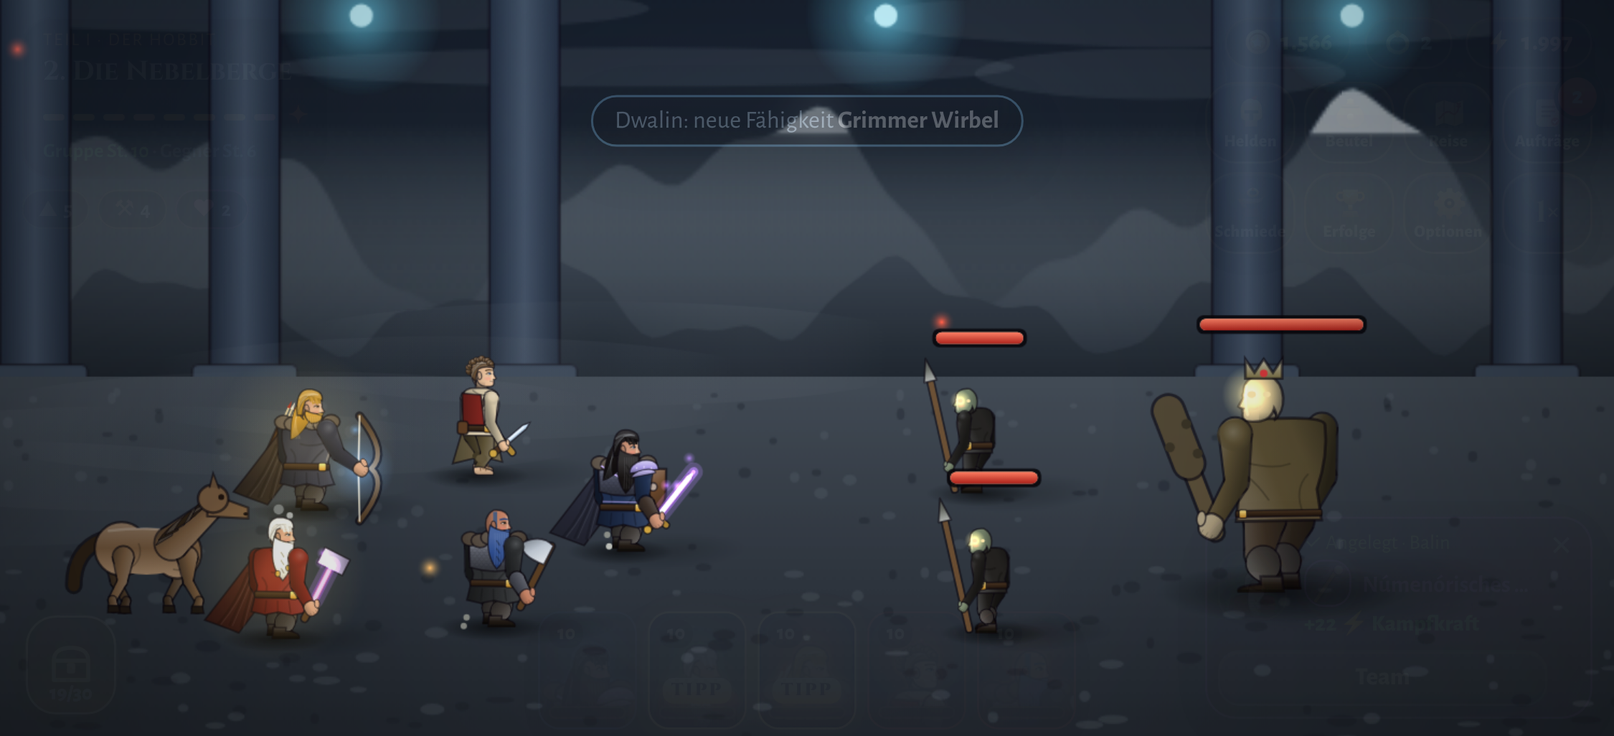
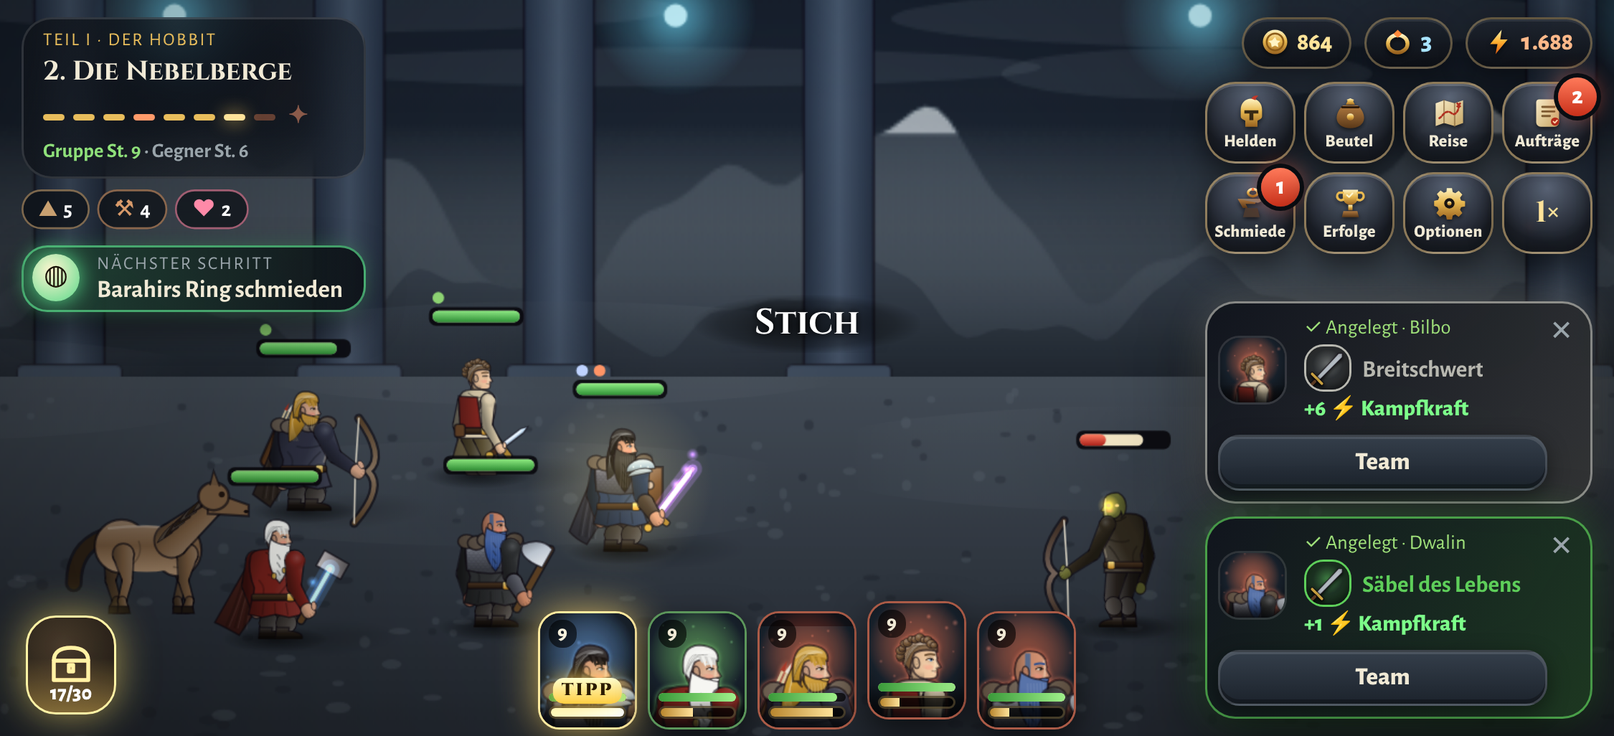
Bedienung und Grafik: Nächster Schritt, Figuren-Info, Wischen zum Schließen, Lebensbalken, Nebel
- Empfehlungs-Knopf mit der sinnvollsten nächsten Aktion
- Info-Karte beim Antippen von Gegnern und Helden
- Menüs per Wischgeste schließen
- Heldenkarten mit LP-Balken, Schadensspur, Treffer- und Heil-Feedback
- Bossleiste mit Schadensspur, Prozentanzeige und Phasenmarke
- Nebelbänke in düsteren Gebieten, keine Textmarkierung beim Wischen

Claude-Session: https://claude.ai/code/session_013CMDwHUxvqhbScGoinLXuV

diff --git a/index.html b/index.html
@@ -198,7 +198,7 @@ body.sheet-open #gsug{display:none}
 .sh-head{display:flex;align-items:center;justify-content:space-between;padding:calc(10px + var(--st)) 16px 10px 18px;border-bottom:1px solid var(--line)}
 .sh-head h2{font-size:22px;background:linear-gradient(#fff3cf,#e0b552);-webkit-background-clip:text;background-clip:text;color:transparent}
 .x{width:38px;height:38px;border-radius:50%;border:1px solid var(--line);background:rgba(255,255,255,.06);font-size:16px}
-.sh-body{flex:1;overflow:auto;padding:14px 18px calc(18px + var(--sb));-webkit-overflow-scrolling:touch;-webkit-user-select:text;user-select:text}
+.sh-body{flex:1;overflow:auto;padding:14px 18px calc(18px + var(--sb));-webkit-overflow-scrolling:touch;-webkit-user-select:none;user-select:none} .sh-body textarea{-webkit-user-select:text;user-select:text}
 .btn{border:1px solid rgba(255,255,255,.16);background:linear-gradient(#2a333e,#1a2028);border-radius:10px;padding:9px 14px;font-weight:800;font-size:14px;box-shadow:0 4px 12px rgba(0,0,0,.4),inset 0 1px 0 rgba(255,255,255,.1);transition:transform .12s,border-color .15s}
 .btn:active:not(:disabled){transform:scale(.96)}
 .btn:disabled{opacity:.4;cursor:not-allowed}
@@ -564,7 +564,7 @@ body.portrait #sheet{width:100%}
   #bossbar{width:min(22cqw,260px);font-size:11px} #bossbar .bar{height:6px}
   .pc{width:46px!important} #party{gap:5px!important;bottom:calc(3px + var(--sb))!important} .pc .pl{font-size:9.5px}
   #chest{width:42px;height:46px}
-  #toasts{top:calc(50px + var(--st))} .toast{max-width:32cqw;white-space:normal;font-size:11.5px;padding:4px 10px;line-height:1.25}
+  #toasts{top:calc(58px + var(--st))} .toast{max-width:32cqw;white-space:normal;font-size:11.5px;padding:4px 10px;line-height:1.25}
   #banner{top:40%;white-space:normal;max-width:66cqw;line-height:1.15;font-size:clamp(13px,2.2cqw,19px)!important} #banner.ult{font-size:clamp(15px,2.6cqw,22px)!important}
   #loot{bottom:calc(64px + var(--sb))!important} #loot .lp{padding:2px 8px 2px 3px;font-size:11px} #loot .lp .ic{width:20px;height:20px}
   #gsug{width:auto} .gsg{width:min(220px,24cqw);padding:5px 20px 5px 5px;grid-template-columns:32px minmax(0,1fr)} .gsg-h{width:32px;height:32px} .gsg-t small{font-size:9.5px} .gsg-i b{font-size:11px} .gsg .btn{padding:4px 6px;font-size:12px} .pos{font-size:10.5px}
@@ -597,6 +597,30 @@ body.portrait #sheet{width:100%}
 /* Gedrehte Darstellung (iPhone hochkant): Spiel um 90° gedreht, Notch-Seite wird links */
 body.rot{--sl:env(safe-area-inset-top,0px);--sr:env(safe-area-inset-bottom,0px);--st:env(safe-area-inset-right,0px);--sb:env(safe-area-inset-left,0px)}
 #rotate{z-index:90}
+/* Heldenkarten: LP-Balken, Treffer- und Heil-Feedback */
+.pc .hpb{position:absolute;left:4px;right:4px;bottom:12px;height:4px;border-radius:4px;background:rgba(0,0,0,.72);overflow:hidden}
+.pc .hpb i{position:absolute;left:0;top:0;bottom:0;border-radius:4px} .pc .hpb .tr{background:#f4e8c8;transition:width .6s ease .35s} .pc .hpb .hp{background:linear-gradient(90deg,#3a9a3a,#9ff08a);transition:width .15s}
+.pc.low .hpb .hp{background:linear-gradient(90deg,#c8302a,#ff7a6a)} .pc.low{box-shadow:0 0 0 1px rgba(255,80,60,.6),0 6px 16px rgba(0,0,0,.6)}
+.pc.hit{animation:pchit .38s ease-out} .pc.heal{animation:pcheal .55s ease-out}
+@keyframes pchit{0%{transform:translateX(0);filter:brightness(1)}15%{transform:translateX(-3px);filter:brightness(1.6) saturate(1.4) hue-rotate(-20deg);box-shadow:inset 0 0 22px rgba(255,40,20,.9),0 0 14px rgba(255,60,40,.7)}35%{transform:translateX(3px)}55%{transform:translateX(-2px)}100%{transform:none;filter:none}}
+@keyframes pcheal{0%{box-shadow:inset 0 0 0 rgba(120,255,140,0)}30%{box-shadow:inset 0 0 22px rgba(120,255,140,.85),0 0 16px rgba(120,255,140,.6)}100%{box-shadow:inset 0 0 0 rgba(120,255,140,0)}}
+/* Bossleiste */
+.bb{position:relative} .bb i{position:absolute;left:0;top:0;bottom:0} #bossTrail{background:#f4e8c8!important;transition:width .7s ease .4s!important} #bossFill{box-shadow:0 0 10px rgba(255,90,60,.7)}
+#bossMark{position:absolute;left:50%;top:-2px;bottom:-2px;width:2px;background:#fff6d0;box-shadow:0 0 6px #fff} #bossPct{display:block;font-family:var(--body);font-size:10.5px;font-weight:800;color:#ffd0c0;margin-top:1px}
+/* Nächster Schritt */
+.next{display:flex;align-items:center;gap:8px;border:1px solid color-mix(in srgb,var(--nc,#e8bd5c) 70%,transparent);border-radius:12px;padding:5px 12px 5px 6px;background:linear-gradient(90deg,color-mix(in srgb,var(--nc,#e8bd5c) 26%,rgba(12,16,22,.94)),rgba(12,16,22,.9));box-shadow:0 0 14px color-mix(in srgb,var(--nc,#e8bd5c) 35%,transparent),0 6px 16px rgba(0,0,0,.5);color:var(--fg);text-align:left;max-width:min(240px,24cqw);animation:nxpulse 1.6s ease-in-out infinite alternate;pointer-events:auto}
+.next .nx-ic{width:26px;height:26px;flex:none;border-radius:50%;display:grid;place-items:center;font-size:15px;color:#1a1206;background:radial-gradient(circle at 40% 35%,#fff6d0,var(--nc,#e8bd5c));box-shadow:0 0 10px var(--nc,#e8bd5c)}
+.next .nx-t{min-width:0;display:flex;flex-direction:column;line-height:1.15} .next small{font-size:9.5px;letter-spacing:.1em;text-transform:uppercase;color:var(--muted)} .next b{font-size:12.5px;white-space:nowrap;overflow:hidden;text-overflow:ellipsis}
+@keyframes nxpulse{from{box-shadow:0 0 8px color-mix(in srgb,var(--nc,#e8bd5c) 25%,transparent),0 6px 16px rgba(0,0,0,.5)}to{box-shadow:0 0 18px color-mix(in srgb,var(--nc,#e8bd5c) 55%,transparent),0 6px 16px rgba(0,0,0,.5)}}
+@container app (orientation: landscape){ #banner{max-width:36cqw!important;white-space:normal!important;line-height:1.12} #loot{max-width:min(220px,24cqw)!important} }
+#nextP{display:none!important} .next.dim{opacity:0;pointer-events:none;transition:opacity .2s}
+/* Info-Karte */
+.uinfo{position:absolute;z-index:35;width:min(230px,60cqw);border-radius:14px;padding:8px 10px;background:linear-gradient(160deg,rgba(24,30,40,.96),rgba(10,12,16,.97));border:1px solid rgba(255,214,140,.4);box-shadow:0 10px 30px rgba(0,0,0,.6);display:flex;flex-direction:column;gap:3px;animation:tin .2s ease-out;pointer-events:auto}
+.uinfo.foe{border-color:rgba(255,110,80,.55)} .ui-h{display:flex;justify-content:space-between;align-items:baseline;gap:8px} .ui-h b{font-family:var(--display);font-size:14px} .ui-h span{font-size:10.5px;color:var(--muted);white-space:nowrap}
+.ui-hp{height:6px;border-radius:6px;background:rgba(0,0,0,.6);overflow:hidden} .ui-hp i{display:block;height:100%;background:linear-gradient(90deg,#3a9a3a,#9ff08a)} .uinfo.foe .ui-hp i{background:linear-gradient(90deg,#b8281e,#ff8a6a)}
+.uinfo small{font-size:11px;color:#d8d2c2;line-height:1.3} .uinfo .ui-x{color:var(--gold)}
+@container app (max-height:390px){ .next{padding:3px 10px 3px 4px} .next .nx-ic{width:22px;height:22px;font-size:13px} .next b{font-size:11.5px} .next small{font-size:8.5px} }
+@container app (orientation: portrait){ #next{display:none!important} #nextP{display:flex!important;position:absolute;left:calc(74px + var(--sl));top:calc(var(--z4) + 8px);max-width:calc(100cqw - 90px - var(--sl) - var(--sr))} #nextP[hidden]{display:none!important} }
 /* Schmiede */
 .m-forge{display:grid;grid-template-columns:repeat(4,minmax(0,1fr));grid-template-rows:minmax(0,1fr);gap:10px}
 .m-ring{position:relative;display:flex;flex-direction:column;align-items:center;text-align:center;gap:2px;border-radius:14px;border:1px solid color-mix(in srgb,var(--rc) 45%,transparent);background:radial-gradient(120% 70% at 50% 0%,color-mix(in srgb,var(--rc) 22%,transparent),rgba(10,12,16,.6));padding:6px 7px;min-height:0;overflow:hidden;box-shadow:inset 0 1px 0 rgba(255,255,255,.07),0 6px 18px rgba(0,0,0,.35)}
@@ -615,7 +639,7 @@ body.rot{--sl:env(safe-area-inset-top,0px);--sr:env(safe-area-inset-bottom,0px);
 .forge .ringbig{width:min(30cqw,30cqh,170px);height:min(30cqw,30cqh,170px);display:block;margin:4px auto;border-radius:50%;filter:drop-shadow(0 0 24px var(--rc))}
 .forge .lore{font-style:italic;max-width:560px;margin:4px auto;color:#e8dcc0}
 .m-ia2.one{grid-template-columns:1fr}
-@container app (orientation: portrait) and (max-width:390px){ #banner{top:calc(var(--top) + 38px)!important;font-size:13px!important;line-height:1.08;padding:2px 20px} #banner.ult{font-size:16px!important} }
+@container app (orientation: portrait) and (max-width:390px){ #banner{top:calc(var(--top) + 50px)!important;font-size:13px!important;line-height:1.08;padding:2px 20px} #banner.ult{font-size:16px!important} }
 @container app (orientation: portrait){ .m-forge{grid-template-columns:repeat(2,minmax(0,1fr));grid-template-rows:repeat(2,minmax(0,1fr))} .m-ring canvas{max-height:80px} }
 @container app (max-height:390px){ .m-ring{padding:4px 5px} .m-ring canvas{max-height:44px} .m-ring b{font-size:11px} .m-ring small{font-size:9px} .m-ring .m-pas{-webkit-line-clamp:1} .m-ra .btn{padding:3px 4px;font-size:10.5px} }
 /* ===================== HOCHFORMAT-LAYOUT ===================== */
@@ -633,7 +657,7 @@ body.rot{--sl:env(safe-area-inset-top,0px);--sr:env(safe-area-inset-bottom,0px);
   .nb{width:auto!important;height:var(--nh)!important;border-radius:12px!important} .nb svg{width:22px!important;height:22px!important} .nb em{font-size:9px!important}
   /* Szene */
   #bossbar{top:calc(var(--top) + 6px);width:74cqw}
-  #banner{top:calc(var(--top) + 44px);max-width:92cqw;white-space:normal;line-height:1.15;font-size:clamp(15px,4.6cqw,22px)!important} #banner.ult{font-size:clamp(17px,5.4cqw,26px)!important}
+  #banner{top:calc(var(--top) + 54px);max-width:92cqw;white-space:normal;line-height:1.15;font-size:clamp(15px,4.6cqw,22px)!important} #banner.ult{font-size:clamp(17px,5.4cqw,26px)!important}
   #combo{top:calc(var(--top) + 34px);right:calc(14px + var(--sr))}
   #loot{left:calc(10px + var(--sl))!important;top:auto;bottom:calc(100cqh - var(--top) - var(--sh) + 8px)!important;max-width:58cqw} #loot .lp{font-size:11.5px;padding:2px 9px 2px 3px} #loot .lp .ic{width:22px;height:22px}
   /* Heldenkarten */
@@ -703,7 +727,7 @@ body.rot{--sl:env(safe-area-inset-top,0px);--sr:env(safe-area-inset-bottom,0px);
   <canvas id="world"></canvas>
   <div id="hud">
     <div class="tl">
-      <div class="tlc"><div class="chap"><small id="chapPart"></small><b id="chapName"></b><div id="pips"></div><div id="lvc"></div></div><div id="syn"></div></div>
+      <div class="tlc"><div class="chap"><small id="chapPart"></small><b id="chapName"></b><div id="pips"></div><div id="lvc"></div></div><div id="syn"></div><button id="next" class="next" hidden></button></div>
       <button id="farm" hidden>Boss herausfordern</button>
     </div>
     <div class="tr">
@@ -719,7 +743,9 @@ body.rot{--sl:env(safe-area-inset-top,0px);--sr:env(safe-area-inset-bottom,0px);
         <button class="nb txt" id="spd" title="Geschwindigkeit" aria-label="Geschwindigkeit">1×</button>
       </nav>
     </div>
-    <div id="bossbar" hidden><span id="bossName"></span><div class="bb"><i id="bossFill"></i></div></div>
+    <div id="bossbar" hidden><span id="bossName"></span><div class="bb"><i id="bossTrail"></i><i id="bossFill"></i><span id="bossMark" title="Phasenwechsel"></span></div><small id="bossPct"></small></div>
+    <button id="nextP" class="next" hidden></button>
+    <div id="uinfo" class="uinfo" hidden></div>
     <div id="banner"></div>
     <div id="combo"></div>
     <button id="chest" title="Siegestruhe" aria-label="Siegestruhe"><span class="cf"><i id="chestFill"></i></span><svg viewBox="0 0 24 24"><path d="M4 10h16v9H4z"/><path d="M4 10c0-4 3-6 8-6s8 2 8 6"/><path d="M11 12h2v3h-2z"/></svg><small id="chestT"></small></button>

diff --git a/js/ui.js b/js/ui.js
@@ -78,7 +78,7 @@ const icHtml = it => `<canvas class="ic r${it.r}" data-ic="${it.icon}" data-c="$
 
 /* ---------- HUD ---------- */
 function buildHud() {
-  $('#party').innerHTML = G.party.map(k => `<div class="pc" data-k="${k}" style="--rc:${heroCol(k)}"><canvas data-card="${k}" data-bust="1"></canvas><div class="hpv"></div><span class="pl">${G.heroes[k].lvl}</span><div class="ultbar"><i></i></div></div>`).join('');
+  $('#party').innerHTML = G.party.map(k => `<div class="pc" data-k="${k}" style="--rc:${heroCol(k)}"><canvas data-card="${k}" data-bust="1"></canvas><div class="hpv"></div><span class="pl">${G.heroes[k].lvl}</span><div class="hpb"><i class="tr"></i><i class="hp"></i></div><div class="ultbar"><i></i></div></div>`).join('');
   $$('#party .pc').forEach(el => el.onclick = () => { if (W.manualUlt(el.dataset.k)) { sfx('ult'); return; } sfx('click'); openHero(el.dataset.k); });
   paintCards($('#party'));
 }
@@ -97,19 +97,20 @@ function updateHud() {
   const qc = questsClaimable(); $('#qBadge').hidden = !qc; $('#qBadge').textContent = qc;
   $('#gold').textContent = fmt(G.gold); $('#mith').textContent = fmt(fragTotal()); const fc = forgeableCount(); $('#fBadge').hidden = !fc; $('#fBadge').textContent = fc;
   $('#power').textContent = fmt(G.party.reduce((a, k) => a + heroStats(k).power, 0));
-  const cc = claimableCount(); $('#achBadge').hidden = !cc; $('#achBadge').textContent = cc;
+  const cc = claimableCount(); $('#achBadge').hidden = !cc; $('#achBadge').textContent = cc; $('#nextP').classList.toggle('dim', $('#toasts').children.length > 0);
   if (G.team) { const el = waveLvl(Math.min(G.story.wave, WAVES)), d = G.team.lvl - el, v = `<span class="${d >= 0 ? 'ok' : d >= -3 ? 'mid' : 'bad'}">Gruppe St. ${G.team.lvl}</span> · Gegner St. ${el}`; if ($('#lvc').dataset.v !== v) { $('#lvc').innerHTML = v; $('#lvc').dataset.v = v; } }
-  if (!updateHud.t || Date.now() - updateHud.t > 1000) { updateHud.t = Date.now(); refreshLooks(); const ev = owned().filter(k => canEvolve(k)?.lvlOk).length; $('#hBadge').hidden = !ev; $('#hBadge').textContent = ev; }
+  if (!updateHud.t || Date.now() - updateHud.t > 1000) { updateHud.t = Date.now(); refreshLooks(); renderNext(); const ev = G.party.filter(k => canEvolve(k)?.lvlOk).length; $('#hBadge').hidden = !ev; $('#hBadge').textContent = ev; }
   for (const u of W.heroes) {
     const el = document.querySelector(`#party .pc[data-k="${u.key}"]`); if (!el) continue;
     el.querySelector('.ultbar i').style.width = Math.min(100, u.energy) + '%';
     el.classList.toggle('ready', u.energy >= 100 && alive(u)); el.classList.toggle('dead', !alive(u)); el.classList.toggle('act', W.active === u);
-    el.querySelector('.hpv').style.height = (100 - u.hp / u.maxHp * 100) + '%';
+    const f = Math.max(0, u.hp / u.maxHp); el.querySelector('.hpv').style.height = (100 - f * 100) + '%'; el.querySelector('.hpb .hp').style.width = f * 100 + '%'; el.querySelector('.hpb .tr').style.width = f * 100 + '%'; el.classList.toggle('low', f > 0 && f < .3);
+    if (el._f !== undefined && W.fighting) { if (f < el._f - .01) { el.classList.remove('hit'); void el.offsetWidth; el.classList.add('hit'); } else if (f > el._f + .01) { el.classList.remove('heal'); void el.offsetWidth; el.classList.add('heal'); } } el._f = f;
     el.querySelector('.pl').textContent = G.heroes[u.key]?.lvl || '';
   }
   const boss = W.enemies.find(e => e.boss && alive(e)), bb = $('#bossbar');
   bb.hidden = !boss || !W.fighting;
-  if (boss) { $('#bossName').textContent = boss.name; $('#bossFill').style.width = (boss.hp / boss.maxHp * 100) + '%'; }
+  if (boss) { const bf = boss.hp / boss.maxHp * 100; $('#bossName').textContent = boss.name; $('#bossFill').style.width = bf + '%'; $('#bossTrail').style.width = bf + '%'; $('#bossPct').textContent = Math.ceil(bf) + ' %'; $('#bossMark').hidden = !!boss.phased || !(PHASE2[boss.key] || boss.transform) || bf <= 50; }
 }
 let bannerT = 0;
 function comboFx(n) { const c = $('#combo'); c.innerHTML = `<small>Gemeinschafts-Kombo</small>×${n}`; c.className = 'show'; clearTimeout(comboFx.t); comboFx.t = setTimeout(() => c.className = '', 1600); G.stats.maxCombo = Math.max(G.stats.maxCombo, n); if (n === 2) track('combos', 1); sfx('ult'); }
@@ -416,6 +417,35 @@ function playNow(q, label) {
   if (q.type === 'tower') G.tower.queued = true; else G.queue = q;
   save(); closeSheet(); sfx('join'); toast(`▶ ${esc(label)}`, 'lvl'); W.abort();
 }
+/* Empfehlung „Nächster Schritt“: die sinnvollste Aktion mit einem Tipp */
+function nextStep() {
+  const fr = RINGS.find(r => canForge(r.id)); if (fr) return { ic: '◍', t: (G.rings?.[fr.id]?.stars ? fr.n + ' veredeln' : fr.n + ' schmieden'), c: fr.c, go: () => openForge(Math.floor(RINGS.indexOf(fr) / 4)) };
+  const fo = RINGS.find(R => (G.rings?.[R.id]?.stars || 0) > 0 && !(G.rings[R.id].owner && G.party.includes(G.rings[R.id].owner)) && G.party.some(k => !ringOf(k))); if (fo) return { ic: '◍', t: fo.n + ' anlegen', c: fo.c, go: () => openRingOwner(fo.id) };
+  const cs = chestState(); if (cs.ready && (G.chest || 0) >= CHEST_MAX * .6) return { ic: '⛁', t: 'Siegestruhe öffnen', c: '#e8bd5c', go: openChest };
+  const q = questsClaimable(); if (q) return { ic: '✎', t: q > 1 ? q + ' Aufträge abholen' : 'Auftrag abholen', c: '#e8bd5c', go: openQuests };
+  const a = claimableCount(); if (a) return { ic: '♛', t: a > 1 ? a + ' Erfolge abholen' : 'Erfolg abholen', c: '#e8bd5c', go: () => openAch() };
+  const ev = G.party.find(k => canEvolve(k)?.lvlOk); if (ev) return { ic: '★', t: HEROES[ev].n + ' entwickeln', c: '#ffd760', go: () => openHero(ev, 'werte') };
+  if (!G.settings.autoEquip && G.party.some(k => Object.keys(SLOTS).some(sl => upgradeFor(k, sl)))) return { ic: '⚡', t: 'Bessere Ausrüstung', c: '#7dff8a', go: () => openHeroes('team') };
+  return null;
+}
+function renderNext() {
+  const n = nextStep(), sig = n ? n.t : '';
+  for (const el of [$('#next'), $('#nextP')]) { if (!el) continue; el.hidden = !n; if (!n) continue; if (el.dataset.v !== sig) { el.dataset.v = sig; el.style.setProperty('--nc', n.c); el.innerHTML = `<span class="nx-ic">${n.ic}</span><span class="nx-t"><small>Nächster Schritt</small><b>${esc(n.t)}</b></span>`; } el.onclick = () => { sfx('click'); n.go(); }; }
+}
+/* Info-Karte beim Antippen einer Figur */
+function unitInfo(u, cx, cy) {
+  const box = $('#uinfo'); if (!u) { box.hidden = true; return; }
+  const E = u.side === 'enemy' ? ENEMIES[u.key] : null, H = u.side === 'hero' ? HEROES[u.key] : null, f = Math.max(0, u.hp / u.maxHp);
+  const tag = E ? (E.boss ? 'Boss' : u.elite ? 'Elite' : 'Gegner') : ROLES[CLASSES[H.cls].role].n;
+  const skills = E ? [...new Set((u.skills || []).map(s => s.n))].slice(0, 4).join(' · ') : [H.act.n, H.act2.n, H.ult.n].join(' · ');
+  const extra = E ? `Bestiarium: ${fmt((G.bestiary || {})[u.key] || 0)}× besiegt` : `Ultimate ${Math.min(100, Math.round(u.energy))} %${ringOf(u.key) ? ' · ◍ ' + esc(ringOf(u.key).R.n) : ''}`;
+  box.className = 'uinfo ' + (E ? 'foe' : 'hero');
+  box.innerHTML = `<div class="ui-h"><b>${esc(u.name)}</b><span>${tag} · St. ${u.lvl || G.team.lvl}</span></div><div class="ui-hp"><i style="width:${f * 100}%"></i></div><small class="ui-n">${fmt(u.hp)} / ${fmt(u.maxHp)} LP${u.statuses.length ? ' · ' + u.statuses.slice(0, 4).map(st => `<span style="color:${STATUS[st.id].c}">●</span>`).join('') : ''}</small><small class="ui-s">${esc(skills)}</small><small class="ui-x">${extra}</small>`;
+  box.hidden = false;
+  const app = $('#app').getBoundingClientRect(), bw = box.offsetWidth, bh = box.offsetHeight;
+  box.style.left = Math.max(8, Math.min(app.width - bw - 8, cx - app.left - bw / 2)) + 'px'; box.style.top = Math.max(8, Math.min(app.height - bh - 8, cy - app.top - bh - 18)) + 'px';
+  clearTimeout(unitInfo.t); unitInfo.t = setTimeout(() => { box.hidden = true; }, 4200);
+}
 function refreshLooks() { for (const u of W.heroes) { const L = heroLook(u.key), sig = JSON.stringify(L.gear || null); if (u._gsig !== undefined && u._gsig !== sig && alive(u)) W.gearUp(u); u._gsig = sig; u.look = L; } }
 function openSheet(title, html, after, o = {}) {
   cancelAnimationFrame(artRaf);
@@ -429,8 +459,8 @@ function openSheet(title, html, after, o = {}) {
   if (o.onPage) s.querySelectorAll('[data-pg]').forEach(b => b.onclick = () => { sfx('click'); o.onPage(o.page + +b.dataset.pg); });
   paintCards(s); after && after(s);
   if (!s._swipe) { s._swipe = 1; let x0 = 0, y0 = 0, t0 = 0;
-    s.addEventListener('pointerdown', e => { x0 = e.clientX; y0 = e.clientY; t0 = Date.now(); });
-    s.addEventListener('pointerup', e => { const [dx, dy] = appDelta(e.clientX - x0, e.clientY - y0); if (Date.now() - t0 < 600 && Math.abs(dx) > 70 && Math.abs(dy) < 45 && !e.target.closest('canvas#map')) { const b = s.querySelector(`.m-pb[data-pg="${dx < 0 ? 1 : -1}"]:not(:disabled)`); if (b) b.click(); } });
+    s.addEventListener('pointerdown', e => { x0 = e.clientX; y0 = e.clientY; t0 = Date.now(); s._head = !!e.target.closest('.sh-head'); });
+    s.addEventListener('pointerup', e => { const [dx, dy] = appDelta(e.clientX - x0, e.clientY - y0); const portrait = innerHeight > innerWidth, inHead = !!s._head; if (Date.now() - t0 < 900 && ((portrait && inHead && dy > 80 && Math.abs(dx) < 60) || (!portrait && dx > 110 && Math.abs(dy) < 45 && !s.querySelector('.m-pb[data-pg="-1"]:not(:disabled)')))) { closeSheet(); return; } if (Date.now() - t0 < 900 && Math.abs(dx) > 70 && Math.abs(dy) < 45 && !e.target.closest('canvas#map')) { const b = s.querySelector(`.m-pb[data-pg="${dx < 0 ? 1 : -1}"]:not(:disabled)`); if (b) b.click(); } });
   }
 }
 function closeSheet() { cancelAnimationFrame(artRaf); const s = $('#sheet'); s.classList.remove('open'); document.body.classList.remove('sheet-open'); setTimeout(() => { if (!s.classList.contains('open')) s.hidden = true; }, 260); }
@@ -847,7 +877,8 @@ function boot() {
   $('#farm').onclick = () => { G.story.farm = false; save(); toast('Der Boss wird erneut herausgefordert!', 'lvl'); updateHud(); };
   $('#rotOk').onclick = () => { layoutMode.dismissed = 1; $('#rotate').hidden = true; };
   addEventListener('resize', layoutMode);
-  $('#world').addEventListener('click', () => { if ($('#sheet').classList.contains('open')) closeSheet(); });
+  $('#world').addEventListener('click', e => { if ($('#sheet').classList.contains('open')) { closeSheet(); return; } const u = W.unitAt(e.clientX, e.clientY); if (u) sfx('click'); unitInfo(u, e.clientX, e.clientY); });
+  $('#uinfo').addEventListener('click', () => { $('#uinfo').hidden = true; });
   document.addEventListener('keydown', e => { if (e.key === 'Escape') closeSheet(); });
 }
 boot();

diff --git a/js/world.js b/js/world.js
@@ -47,6 +47,14 @@ class World {
     this.layoutHeroes(); this.layoutEnemies(true);
   }
   get cx() { return this.LW / 2; }
+  /* Antippen in der Welt: Bildschirmpunkt → Weltkoordinaten → Figur */
+  unitAt(clientX, clientY) {
+    const r = this.cv.getBoundingClientRect(), px = (clientX - r.left) * this.cv.width / r.width, py = (clientY - r.top) * this.cv.height / r.height;
+    const z = this.cam.z, s = this.s, sc = s * z, tx = this.ox0 + (-(this.LW / 2) * (z - 1) - (this.cam.x - this.LW / 2) * (z - 1)) * s, ty = (-(LH / 2) * (z - 1) - (this.cam.y - LH / 2) * (z - 1)) * s;
+    const wx = (px - tx) / sc, wy = (py - ty) / sc; let best = null, bd = 1e9;
+    for (const u of this.all()) { if (!alive(u) || u.fade <= 0) continue; const ux = u.x + u.ox + u.kb, uy = u.y + u.oy - (hasS(u, 'fly') ? 14 : 0); if (Math.abs(wx - ux) > u.w * .7 + 7 || wy < uy - u.h - 8 || wy > uy + 5) continue; const d = Math.abs(wx - ux) + Math.abs(wy - (uy - u.h / 2)) * .5; if (d < bd) { bd = d; best = u; } }
+    return best;
+  }
   spread() { return clamp(this.LW / 256, 1, 1.35); }
   setBg(key) {
     if (key === this.bgKey) return;
@@ -607,6 +615,10 @@ class World {
   }
   drawAtmos(ctx, gt) {
     const T = BACKGROUNDS[this.bgKey] || {};
+    if (this.hq() && ['mirkwood', 'dolguldur', 'weather', 'cirith', 'helm', 'moria', 'khazad', 'doom', 'snow'].includes(this.bgKey)) {
+      const col = { doom: '60,30,26', moria: '40,30,30', khazad: '70,90,110', snow: '230,240,255', cirith: '90,70,120', dolguldur: '80,110,90' }[this.bgKey] || '150,160,170';
+      ctx.save(); for (let i = 0; i < 3; i++) { const y = 82 + i * 14, off = ((gt * (.006 + i * .003) - this.scroll * (.3 + i * .15)) % 260 + 260) % 260; ctx.globalAlpha = .1 + i * .03; for (let x = -off - 130; x < this.LW + 130; x += 260) { const g = ctx.createRadialGradient(x + 130, y, 0, x + 130, y, 130); g.addColorStop(0, `rgba(${col},.9)`); g.addColorStop(1, `rgba(${col},0)`); ctx.fillStyle = g; ctx.save(); ctx.translate(x + 130, y); ctx.scale(1, .14); ctx.translate(-(x + 130), -y); ctx.fillRect(x, y - 130, 260, 260); ctx.restore(); } } ctx.restore();
+    }
     ctx.save(); ctx.globalAlpha = .14;
     for (let i = 0; i < 5; i++) { const x = ((gt * .004 * (i + 1) - this.scroll * .5 + i * 90) % (this.LW + 120) + this.LW + 120) % (this.LW + 120) - 60, y = 72 + i * 6; const g = ctx.createRadialGradient(x, y, 0, x, y, 50); g.addColorStop(0, T.sky ? T.sky[T.sky.length - 1] : '#fff'); g.addColorStop(1, 'rgba(255,255,255,0)'); ctx.fillStyle = g; ctx.beginPath(); ctx.ellipse(x, y, 60, 9, 0, 0, Math.PI * 2); ctx.fill(); }
     ctx.restore();

diff --git a/sw.js b/sw.js
@@ -1,5 +1,5 @@
 /* Ringfahrt – Offline-Cache. Version erhöhen, wenn sich Dateien ändern. */
-const V = 'ringfahrt-v21';
+const V = 'ringfahrt-v22';
 const SHELL = ['./', './index.html', './manifest.webmanifest', './js/data.js', './js/render.js', './js/core.js', './js/world.js', './js/ui.js', './icons/icon-180.png', './icons/icon-192.png', './icons/icon-512.png'];
 self.addEventListener('install', e => { e.waitUntil(caches.open(V).then(c => c.addAll(SHELL)).then(() => self.skipWaiting())); });
 self.addEventListener('activate', e => { e.waitUntil(caches.keys().then(ks => Promise.all(ks.filter(k => k !== V).map(k => caches.delete(k)))).then(() => self.clients.claim())); });

diff --git a/README.md b/README.md
@@ -12,6 +12,13 @@ Ein Auto-Kampf-RPG im Browser, gebaut für das iPhone im Querformat, mit Helden 
 
 Optimiert für iPhone 11 (896 × 414 pt, Notch links/rechts, Home-Leiste unten). Unter **Optionen → Grafik** lässt sich zwischen *Auto*, *Hoch* (Figuren mit Szenenlicht, Kantenlicht und Bodenverdeckung) und *Normal* wählen; *Auto* schaltet bei zu niedriger Bildrate selbst herunter.
 
+## Neu in Version 11.1
+- **Nächster Schritt:** leuchtender Knopf mit der sinnvollsten Aktion (Ring schmieden, Truhe öffnen, Aufträge/Erfolge abholen, Held entwickeln) – ein Tipp führt hin
+- **Figuren antippen:** Info-Karte mit Stufe, Leben, Zuständen, Fähigkeiten und Bestiarium
+- **Wischen schließt Menüs** (hochkant: Kopfzeile nach unten, quer: nach rechts)
+- **Heldenkarten** mit Lebensbalken, Schadensspur, Treffer-Blitz und Heil-Leuchten; **Bossleiste** mit Schadensspur, Prozent und Phasenmarke
+- **Nebelbänke** in Düsterwald, Dol Guldur, Moria, Mordor u. a.
+
 ## Neu in Version 11
 - **Ringe der Macht schmieden** (neuer Menüpunkt „Schmiede“): Barahirs Ring, Durins Ring, Vilya, Nenya, Narya, ein Ring der Neun und der Eine Ring – die mächtigsten Gegenstände des Spiels, mit Gruppen-Aura, veredelbar bis ★5, sichtbar leuchtend an der Hand des Trägers
 - **Ringfragmente** findet man bei Bossen, in Truhen, Nebenquests, Erfolgen, im Orthanc-Turm, in Spezialmodi und Prüfungen
